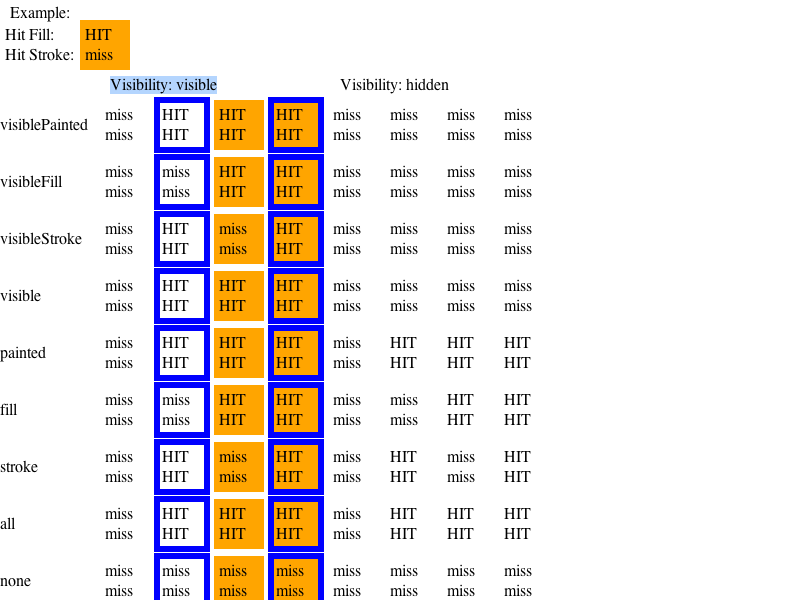
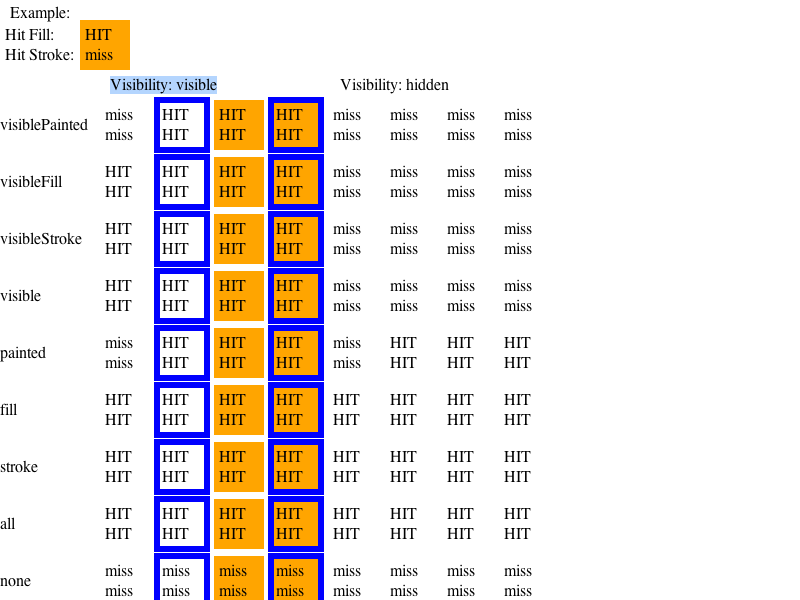
Reviewed by Eric.
http://bugzilla.opendarwin.org/show_bug.cgi?id=10586
        pointer-events has issues when things are not stroked/filled

        Add a param to fillContains/strokeContains to indicate
        whether we still want hit testing when there is no fill/stroke.

git-svn-id: https://svn.webkit.org/repository/webkit/trunk@16123 268f45cc-cd09-0410-ab3c-d52691b4dbfc

diff --git a/WebCore/kcanvas/RenderPath.cpp b/WebCore/kcanvas/RenderPath.cpp
@@ -78,12 +78,12 @@ FloatPoint RenderPath::mapAbsolutePointToLocal(const FloatPoint& point) const
     return FloatPoint(localX, localY);
 }
 
-bool RenderPath::fillContains(const FloatPoint& point) const
+bool RenderPath::fillContains(const FloatPoint& point, bool requiresFill) const
 {
     if (d->path.isEmpty())
         return false;
 
-    if (!KSVGPainterFactory::fillPaintServer(style(), this))
+    if (requiresFill && !KSVGPainterFactory::fillPaintServer(style(), this))
         return false;
 
     return path().contains(mapAbsolutePointToLocal(point),
@@ -303,8 +303,8 @@ bool RenderPath::nodeAtPoint(NodeInfo& info, int _x, int _y, int _tx, int _ty, H
         bool hasFill = (style()->svgStyle()->fillPaint() && style()->svgStyle()->fillPaint()->paintType() != SVG_PAINTTYPE_NONE);
         bool hasStroke = (style()->svgStyle()->strokePaint() && style()->svgStyle()->strokePaint()->paintType() != SVG_PAINTTYPE_NONE);
         FloatPoint hitPoint(_x,_y);
-        if ((hitRules.canHitStroke && (hasStroke || !hitRules.requireStroke) && strokeContains(hitPoint))
-            || (hitRules.canHitFill && (hasFill || !hitRules.requireFill) && fillContains(hitPoint))) {
+        if ((hitRules.canHitStroke && (hasStroke || !hitRules.requireStroke) && strokeContains(hitPoint, hitRules.requireStroke))
+            || (hitRules.canHitFill && (hasFill || !hitRules.requireFill) && fillContains(hitPoint, hitRules.requireFill))) {
             setInnerNode(info);
             return true;
         }

diff --git a/WebCore/kcanvas/RenderPath.h b/WebCore/kcanvas/RenderPath.h
@@ -46,8 +46,8 @@ public:
     virtual ~RenderPath();
 
     // Hit-detection seperated for the fill and the stroke
-    virtual bool fillContains(const FloatPoint &p) const;
-    virtual bool strokeContains(const FloatPoint &p) const = 0;
+    virtual bool fillContains(const FloatPoint &p, bool = true) const;
+    virtual bool strokeContains(const FloatPoint &p, bool = true) const = 0;
 
     // Returns an unscaled bounding box (not even including localTransform()) for this vector path
     virtual FloatRect relativeBBox(bool includeStroke = true) const;

diff --git a/WebCore/kcanvas/device/quartz/KCanvasItemQuartz.mm b/WebCore/kcanvas/device/quartz/KCanvasItemQuartz.mm
@@ -197,12 +197,12 @@ FloatRect KCanvasItemQuartz::strokeBBox() const
 }
 
 
-bool KCanvasItemQuartz::strokeContains(const FloatPoint& point) const
+bool KCanvasItemQuartz::strokeContains(const FloatPoint& point, bool requiresStroke) const
 {
     if (path().isEmpty())
         return false;
 
-    if (!KSVGPainterFactory::strokePaintServer(style(), this))
+    if (requiresStroke && !KSVGPainterFactory::strokePaintServer(style(), this))
         return false;
 
     CGMutablePathRef cgPath = path().platformPath();

diff --git a/WebCore/kcanvas/device/quartz/KCanvasItemQuartz.h b/WebCore/kcanvas/device/quartz/KCanvasItemQuartz.h
@@ -37,7 +37,7 @@ public:
     KCanvasItemQuartz(RenderStyle*, SVGStyledElement*);
     virtual ~KCanvasItemQuartz() { }
     
-    virtual bool strokeContains(const FloatPoint& point) const;
+    virtual bool strokeContains(const FloatPoint& point, bool = true) const;
     virtual void drawMarkersIfNeeded(GraphicsContext*, const FloatRect&, const Path&) const;
     virtual FloatRect strokeBBox() const;
 };
